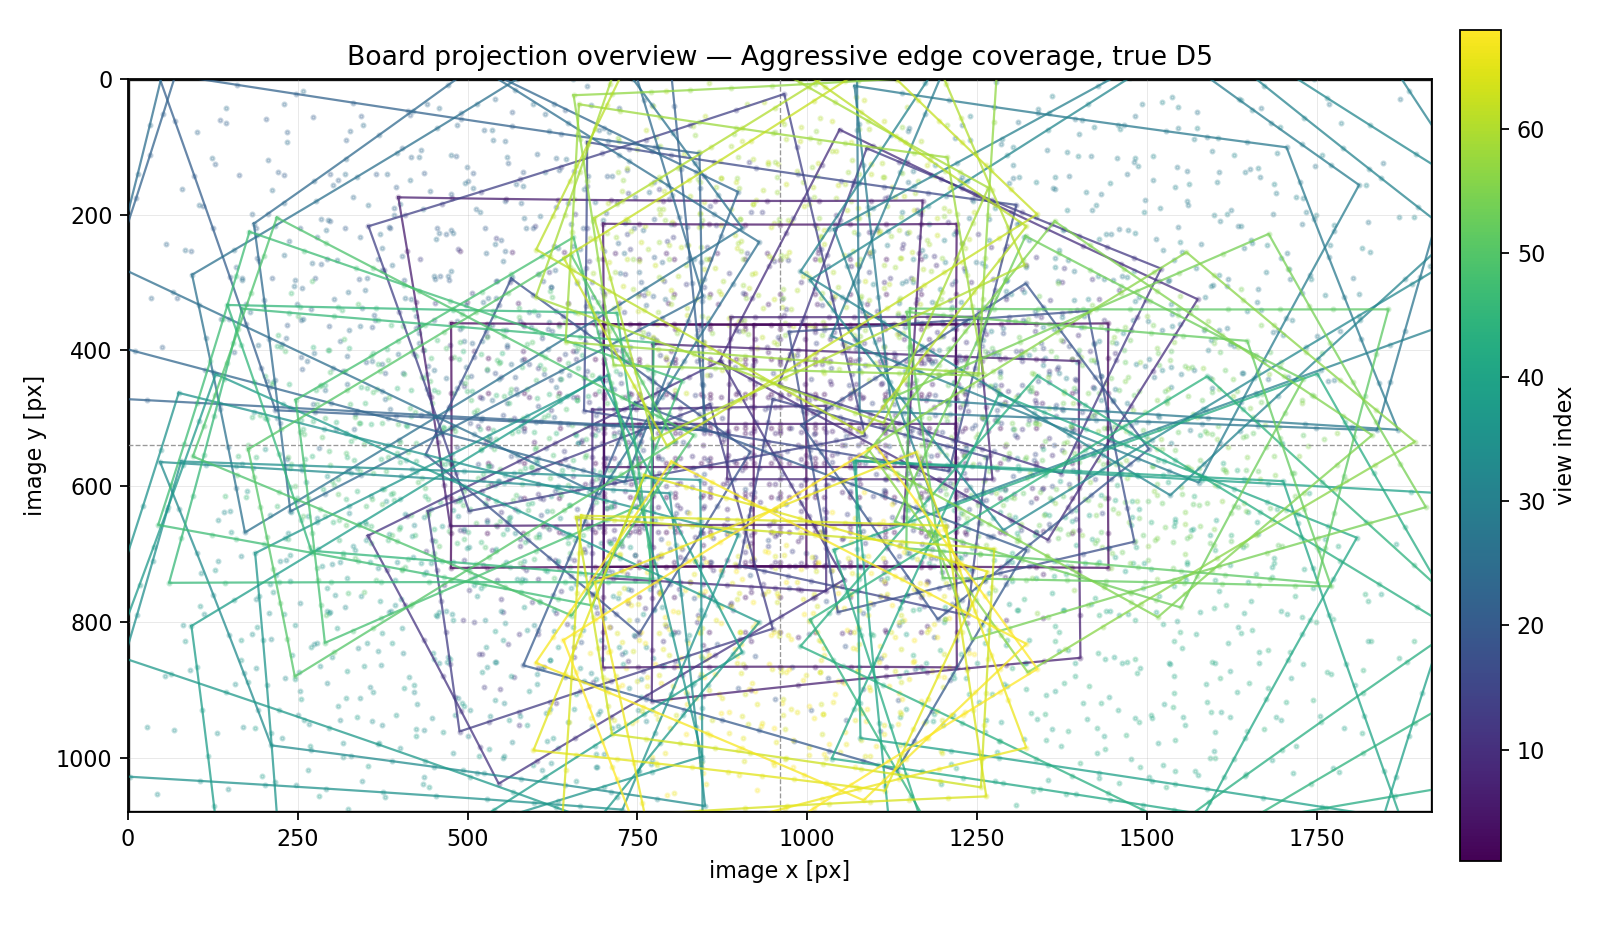
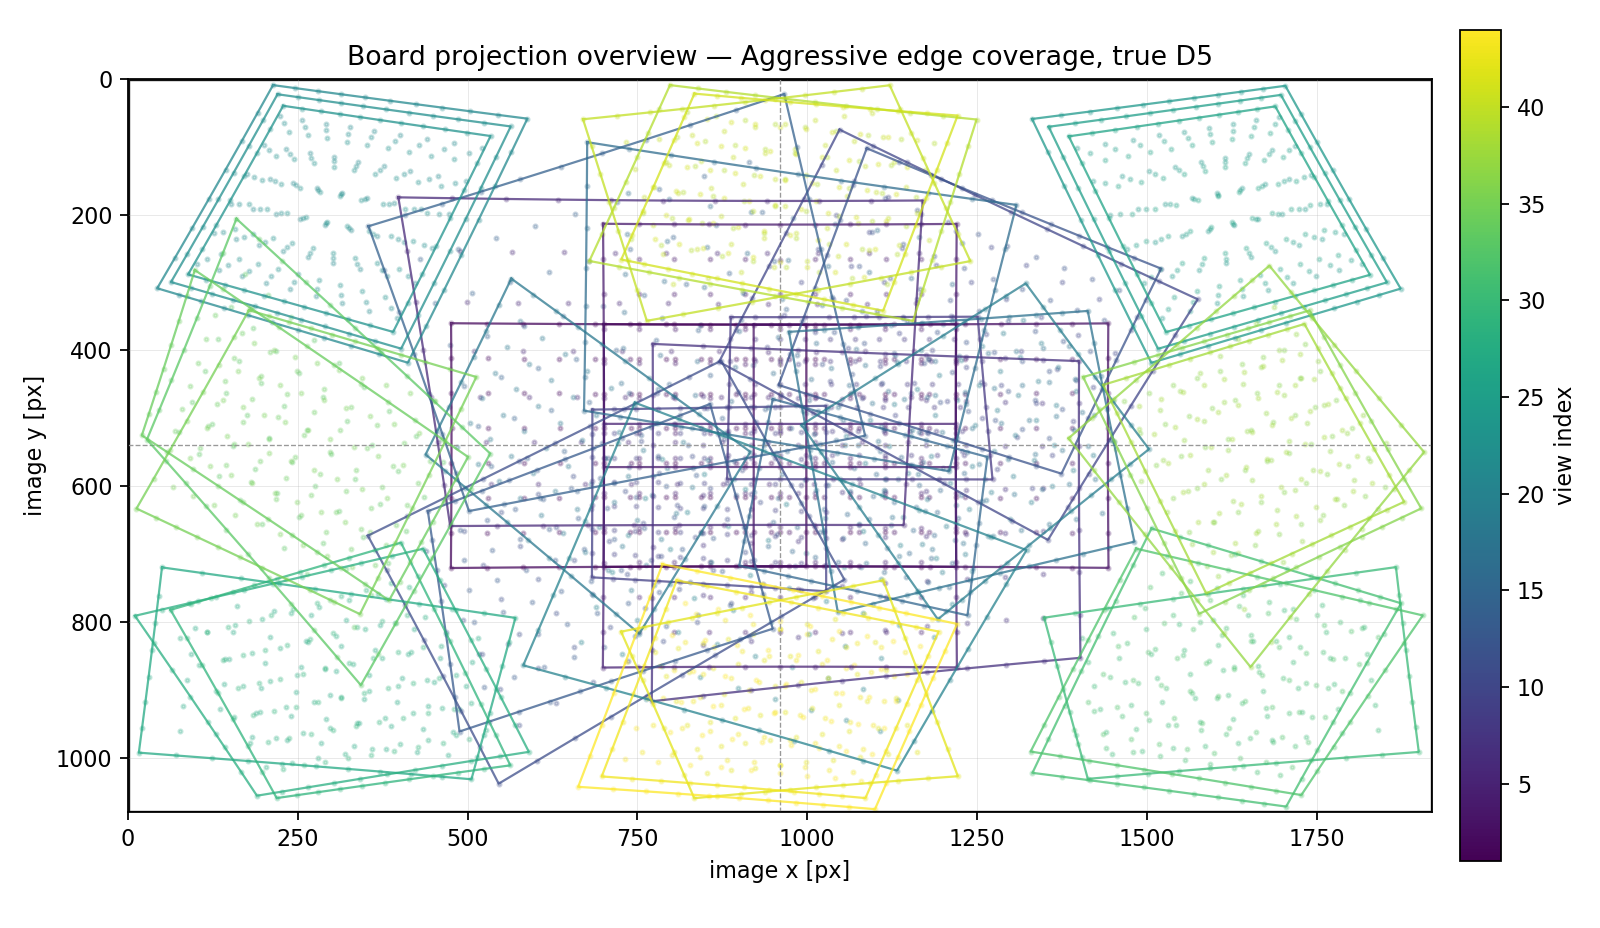
test(imgui): 补充合法边角覆盖模拟

diff --git a/crates/frontends/imgui/tests/observability_simulation.rs b/crates/frontends/imgui/tests/observability_simulation.rs
@@ -4,7 +4,7 @@ use camera_toolbox_core::{
     BoardSpec, CalibrationImageSize, CalibrationPoint, CalibrationRequest, CalibrationSolution,
     ChessboardDetection, InitialIntrinsics,
 };
-use pongbot_calib_tool::observability::{ObservabilityReport, analyze_solution};
+use pongbot_calib_tool::observability::{analyze_solution, ObservabilityReport};
 use pongbot_calib_tool::preview::{CapturedDatasetFrame, CapturedDatasetSource};
 use pongbot_calib_tool::solve::DetectedDatasetFrame;
 use std::path::{Path, PathBuf};
@@ -538,7 +538,7 @@ fn expected_progression() -> Vec<SyntheticPose> {
         (
             "depth:near-roll",
             [0.22, 0.28, -0.28],
-            [-155.0, -110.0, 720.0],
+            [-155.0, -95.0, 720.0],
         ),
         (
             "depth:near-mixed",
@@ -586,65 +586,49 @@ fn expected_progression() -> Vec<SyntheticPose> {
     })
     .collect::<Vec<_>>();
 
-    let centers = [
-        [-260.0, -150.0, 640.0],
-        [260.0, -150.0, 640.0],
-        [-260.0, 150.0, 640.0],
-        [260.0, 150.0, 640.0],
-        [-330.0, 0.0, 820.0],
-        [330.0, 0.0, 820.0],
-        [0.0, -210.0, 820.0],
-        [0.0, 210.0, 820.0],
-    ];
-    let rotations = [
-        [0.42, 0.24, 0.0],
-        [-0.42, -0.24, 0.0],
-        [0.24, -0.42, 0.35],
-        [-0.24, 0.42, -0.35],
-        [0.50, -0.15, 0.55],
-        [-0.50, 0.15, -0.55],
-    ];
-    for center_camera in centers {
-        for rvec in rotations {
-            poses.push(SyntheticPose {
-                label: "edge-corner:extra",
-                rvec,
-                center_camera,
-            });
-        }
-    }
+    append_visible_edge_corner_poses(&mut poses, "edge-corner:visible-extra");
     poses
 }
 fn aggressive_edge_coverage() -> Vec<SyntheticPose> {
     let mut poses = progressive_full_coverage();
-    let centers = [
-        [-260.0, -150.0, 640.0],
-        [260.0, -150.0, 640.0],
-        [-260.0, 150.0, 640.0],
-        [260.0, 150.0, 640.0],
-        [-330.0, 0.0, 820.0],
-        [330.0, 0.0, 820.0],
-        [0.0, -210.0, 820.0],
-        [0.0, 210.0, 820.0],
-    ];
-    let rotations = [
-        [0.42, 0.24, 0.0],
-        [-0.42, -0.24, 0.0],
-        [0.24, -0.42, 0.35],
-        [-0.24, 0.42, -0.35],
-        [0.50, -0.15, 0.55],
-        [-0.50, 0.15, -0.55],
-    ];
-    for center_camera in centers {
-        for rvec in rotations {
-            poses.push(SyntheticPose {
-                label: "edge-extra",
-                rvec,
-                center_camera,
-            });
-        }
-    }
+    append_visible_edge_corner_poses(&mut poses, "edge-visible-extra");
     poses
+}
+
+fn append_visible_edge_corner_poses(poses: &mut Vec<SyntheticPose>, label: &'static str) {
+    let pose_specs = [
+        ([-0.26, 0.40, 0.32], [-480.0, -259.3, 900.0]),
+        ([-0.26, 0.40, 0.32], [-522.7, -282.4, 980.0]),
+        ([-0.26, 0.40, 0.32], [-586.7, -316.9, 1100.0]),
+        ([-0.26, -0.40, -0.32], [480.0, -259.3, 900.0]),
+        ([-0.26, -0.40, -0.32], [522.7, -282.4, 980.0]),
+        ([-0.26, -0.40, -0.32], [586.7, -316.9, 1100.0]),
+        ([0.36, -0.24, 0.28], [-586.7, 316.9, 1100.0]),
+        ([0.36, 0.24, -0.28], [-522.7, 282.4, 980.0]),
+        ([0.26, 0.40, -0.32], [-522.7, 282.4, 980.0]),
+        ([0.36, 0.24, -0.28], [586.7, 316.9, 1100.0]),
+        ([0.26, -0.40, 0.32], [480.0, 259.3, 900.0]),
+        ([0.36, -0.24, 0.28], [522.7, 282.4, 980.0]),
+        ([0.18, 0.42, 0.62], [-471.5, 0.0, 820.0]),
+        ([0.42, 0.12, 0.62], [-632.5, 0.0, 1100.0]),
+        ([-0.26, 0.40, 0.32], [-563.5, 0.0, 980.0]),
+        ([-0.26, -0.40, -0.32], [563.5, 0.0, 980.0]),
+        ([-0.18, -0.42, -0.62], [517.5, 0.0, 900.0]),
+        ([-0.26, -0.40, -0.32], [632.5, 0.0, 1100.0]),
+        ([-0.36, 0.24, 0.28], [0.0, -307.3, 980.0]),
+        ([-0.36, -0.24, -0.28], [0.0, -307.3, 980.0]),
+        ([-0.26, 0.40, 0.32], [0.0, -344.9, 1100.0]),
+        ([0.26, 0.40, -0.32], [0.0, 344.9, 1100.0]),
+        ([0.26, -0.40, 0.32], [0.0, 344.9, 1100.0]),
+        ([0.26, -0.40, 0.32], [0.0, 307.3, 980.0]),
+    ];
+    for (rvec, center_camera) in pose_specs {
+        poses.push(SyntheticPose {
+            label,
+            rvec,
+            center_camera,
+        });
+    }
 }
 
 fn translation_for_board_center(
@@ -688,9 +672,16 @@ fn project_board(
             let x = camera[0] / camera[2];
             let y = camera[1] / camera[2];
             let [xd, yd] = distort(x, y, distortion);
+            let u = intrinsics[0] * xd + intrinsics[2];
+            let v = intrinsics[4] * yd + intrinsics[5];
+            assert!(
+                (0.0..=f64::from(IMAGE_SIZE.width)).contains(&u)
+                    && (0.0..=f64::from(IMAGE_SIZE.height)).contains(&v),
+                "synthetic full-board view projects outside image: ({u:.1}, {v:.1})"
+            );
             points.push(CalibrationPoint {
-                x: (intrinsics[0] * xd + intrinsics[2]) as f32,
-                y: (intrinsics[4] * yd + intrinsics[5]) as f32,
+                x: u as f32,
+                y: v as f32,
             });
         }
     }

diff --git a/.ai_doc/experiments/figures/h2_observability/expected_progression_stage_summary.md b/.ai_doc/experiments/figures/h2_observability/expected_progression_stage_summary.md
@@ -1,6 +1,6 @@
 | 阶段 | 阶段结束 view | RMS(px) | fx/fy 误差(%) | cx/cy 误差(px) | cond(H) | 焦距 σ(%) | 主点 σ(px) | D5 edge σ(px) | H2 提示 |
 |---|---:|---:|---:|---:|---:|---:|---:|---:|---|
-| 正视平铺满 | 9 | 2.98e-05 | -24.767/-24.767 | -0.091/-0.111 | 5.83e+15 | 439.087 | 2.354 | 15950.893 | 焦距仍未充分约束：请增加远近变化和横竖倾斜 |
-| 多姿态 | 21 | 2.92e-05 | -2.09e-06/8.03e-07 | 0.002/0.003 | 6.20e+15 | 6.90e-04 | 0.126 | 15305.614 | 畸变仍未充分约束：请让角点覆盖画面大半径和四角 |
-| 补深度 | 33 | 2.94e-05 | 4.84e-06/6.83e-06 | 5.24e-04/0.002 | -- | -- | -- | -- | 内参信息矩阵未满秩，请继续采集不同姿态 |
-| 补边角 | 81 | 2.96e-05 | 2.29e-06/2.27e-06 | 4.84e-05/2.77e-04 | 1.40e+13 | 1.25e-04 | 0.019 | 262.193 | 畸变仍未充分约束：请让角点覆盖画面大半径和四角 |
+| 正视平铺满 | 9 | 2.98e-05 | -24.767/-24.767 | -0.091/-0.111 | -- | -- | -- | -- | 内参信息矩阵未满秩，请继续采集不同姿态 |
+| 多姿态 | 21 | 2.92e-05 | -2.10e-06/8.00e-07 | 0.002/0.003 | -- | -- | -- | -- | 内参信息矩阵未满秩，请继续采集不同姿态 |
+| 补深度 | 33 | 2.93e-05 | 4.79e-06/6.90e-06 | 6.50e-04/0.002 | 1.24e+16 | 3.82e-04 | 0.075 | 17523.191 | 畸变仍未充分约束：请让角点覆盖画面大半径和四角 |
+| 补边角 | 57 | 2.92e-05 | 1.26e-06/2.50e-06 | -2.96e-04/7.10e-05 | -- | -- | -- | -- | 内参信息矩阵未满秩，请继续采集不同姿态 |

diff --git a/.ai_doc/experiments/figures/h2_observability/milestones.md b/.ai_doc/experiments/figures/h2_observability/milestones.md
@@ -1,8 +1,8 @@
 | 数据集 | OpenCV 首次可解 | H2 首次可分析 | H2 首次达标 | 最小 cond(H) | 最小 D5 edge σ(px) | 最终 fx/fy 误差 | 最终 cx/cy 误差(px) |
 |---|---:|---:|---:|---:|---:|---:|---:|
-| Fronto-parallel only | 1 | 5 | -- | 2.11e+15 | 10986.808 | -24.756/-24.756 | -0.046/-0.068 |
-| Same depth, pose diverse | 1 | 2 | -- | 2.14e+15 | 24912.438 | 1.13e-05/1.08e-05 | 0.001/0.001 |
-| Progressive coverage, true D12 | 1 | 1 | -- | 1.58e+15 | 15087.962 | -1.69e-06/-3.76e-06 | -0.002/-8.28e-04 |
-| Progressive coverage, true D5 | 1 | 6 | -- | 6.03e+15 | 15961.343 | -5.02e-06/-4.57e-06 | 0.002/-2.63e-04 |
-| Expected progression, true D5 | 1 | 5 | -- | 1.26e+13 | 261.347 | 2.29e-06/2.27e-06 | 4.84e-05/2.77e-04 |
-| Aggressive edge coverage, true D5 | 1 | 7 | -- | 1.33e+13 | 268.667 | 1.43e-06/8.10e-07 | 4.22e-04/-6.76e-05 |
+| Fronto-parallel only | 1 | 7 | -- | 4.17e+15 | 11331.635 | -24.756/-24.756 | -0.046/-0.068 |
+| Same depth, pose diverse | 1 | 2 | -- | 2.14e+15 | 22178.934 | 1.13e-05/1.08e-05 | 0.001/0.001 |
+| Progressive coverage, true D12 | 1 | 1 | -- | 1.58e+15 | 13459.671 | -1.69e-06/-3.75e-06 | -0.002/-8.28e-04 |
+| Progressive coverage, true D5 | 1 | 7 | -- | 5.27e+15 | 15226.708 | -5.02e-06/-4.57e-06 | 0.002/-2.63e-04 |
+| Expected progression, true D5 | 1 | 10 | -- | 1.52e+14 | 1894.569 | 1.26e-06/2.50e-06 | -2.96e-04/7.10e-05 |
+| Aggressive edge coverage, true D5 | 1 | 8 | -- | 7.38e+13 | 1550.105 | -5.09e-06/-4.91e-06 | 8.97e-04/-0.001 |
